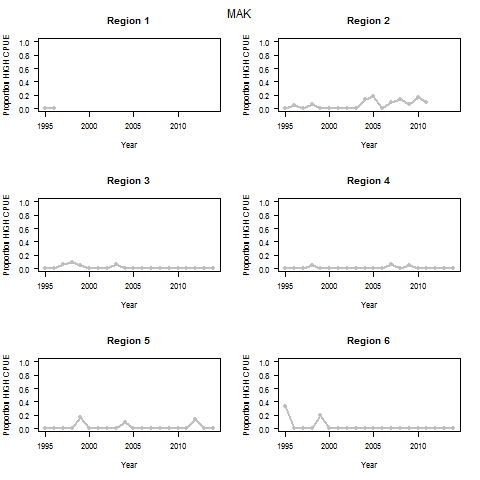
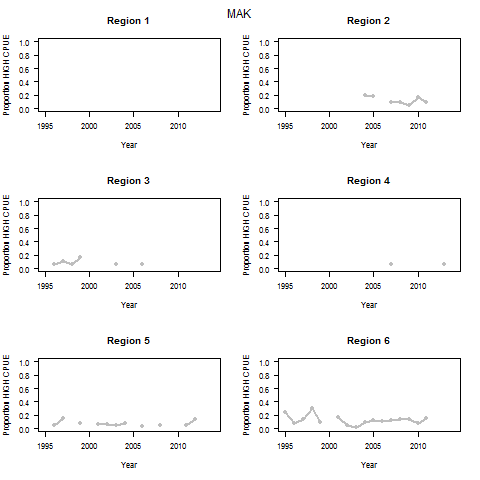
Updated High CPUE images
also added the cpue and cell(5x5 ) calc to the
ll_obs_data_prep_sets_and_catch11JULY2015.r script

diff --git a/WRITEUP/shk-indic_sc-report_2015_figures.tex b/WRITEUP/shk-indic_sc-report_2015_figures.tex
@@ -121,7 +121,16 @@
 \addcenterfig[Thresher shark distribution indicators. Proportion of positive sets, observer data.]{fig:thr1}{FIG_xx_pcntpos_reg_THR} 
 \addcenterfig[Thresher shark distribution indicators. Proportion of 5 degree squares having CPUE greater than 1 per 1000 hooks region, observer data.]{fig:thr2}{FIG_xx_HIGH_CPUE_THR}
           
-          
+%----------------------------------------------------------------------------------------
+ \subsubsection{Hammerhead Shark}
+\addcenterfig[Hammerhead shark distribution indicators. Proportion of positive sets, observer data.]{fig:HHD1}{FIG_xx_pcntpos_reg_HHD} 
+\addcenterfig[Hammerhead shark distribution indicators. Proportion of 5 degree squares having CPUE greater than 1 per 1000 hooks region, observer data.]{fig:HHD2}{FIG_xx_HIGH_CPUE_HHD}
+
+%----------------------------------------------------------------------------------------
+\subsubsection{Porbeagle Shark}
+\addcenterfig[Porbeagle shark distribution indicators. Proportion of positive sets, observer data.]{fig:POR1}{FIG_xx_pcntpos_reg_POR} 
+\addcenterfig[Porbeagle shark distribution indicators. Proportion of 5 degree squares having CPUE greater than 1 per 1000 hooks region, observer data.]{fig:POR2}{FIG_xx_HIGH_CPUE_POR}
+
   \subsection{Conclusions}
 %----------------------------------------------------------------------------------------
 %  Species COmposition
